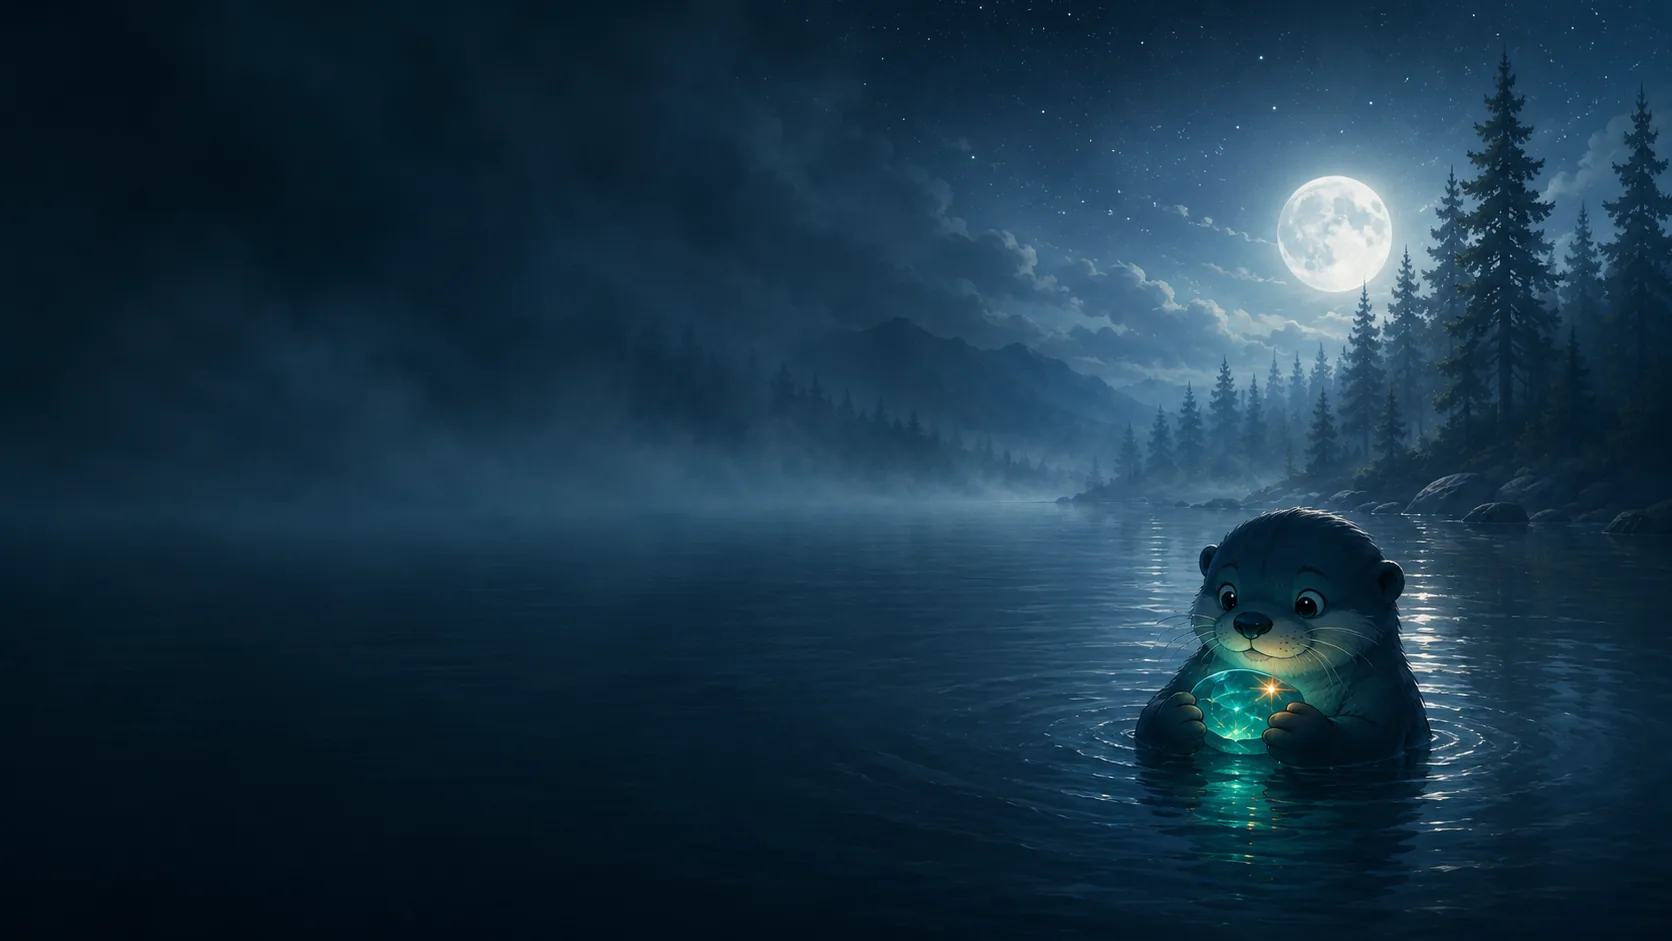
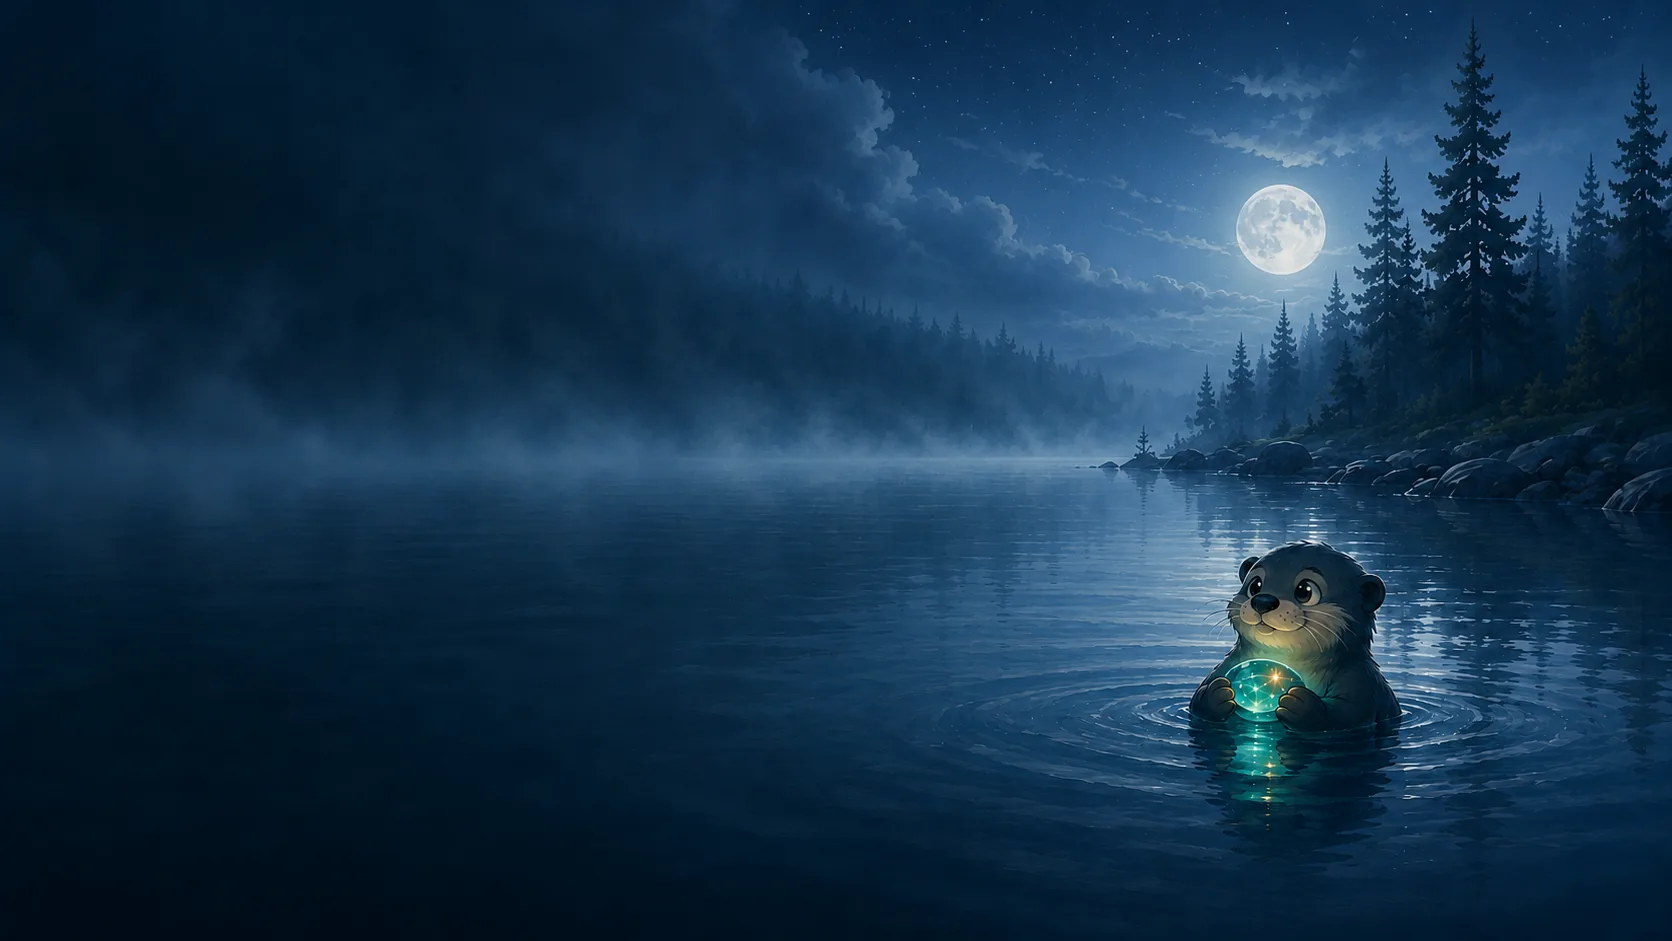
site: deploy

Changed region(s): [[0.0, 0.0, 1.0, 0.9554], [0.9641, 0.4623, 1.0, 0.5547], [0.3421, 0.0, 0.3732, 0.0308]]

diff --git a/index.html b/index.html
@@ -67,16 +67,11 @@
     }
   }
   .theme-toggle{cursor:pointer}
-  .btn.theme-toggle{padding:9px;width:38px;justify-content:center;color:var(--muted)}
-  .btn.theme-toggle:hover{color:var(--ink)}
-  /* transient cue on theme switch: needed because the hero is deepwater in BOTH themes,
-     so a toggle at the top of the page otherwise shows no visible change */
-  .theme-toast{position:fixed;top:74px;right:22px;z-index:60;display:inline-flex;align-items:center;gap:8px;
-    padding:9px 14px;border-radius:999px;background:var(--surface);color:var(--ink);border:1px solid var(--line);
-    box-shadow:var(--shadow-s);font-size:13px;font-weight:600;opacity:0;transform:translateY(-8px) scale(.96);
-    pointer-events:none;transition:opacity .28s ease,transform .28s ease}
-  .theme-toast.show{opacity:1;transform:none}
-  .theme-toast svg{width:15px;height:15px;color:var(--current)}
+  /* no color here: the toggle inherits the header button color (mist over the hero, ink scrolled) */
+  .btn.theme-toggle{padding:9px;width:38px;justify-content:center}
+  /* theme switch cross-fades via the View Transitions API (wired in JS); tune duration + respect reduced-motion */
+  ::view-transition-old(root),::view-transition-new(root){animation-duration:.45s;animation-timing-function:ease}
+  @media (prefers-reduced-motion: reduce){ ::view-transition-old(root),::view-transition-new(root){animation:none} }
   .theme-toggle .sun{display:none}
   :root[data-theme="dark"] .theme-toggle .moon{display:none}
   :root[data-theme="dark"] .theme-toggle .sun{display:block}
@@ -662,12 +657,11 @@
   function cur(){var e=r.getAttribute("data-theme");return e||(matchMedia("(prefers-color-scheme: dark)").matches?"dark":"light");}
   function lbl(t){b.setAttribute("aria-label",t==="dark"?"Switch to light theme":"Switch to dark theme");}
   lbl(cur());
-  var toast=document.createElement("div");toast.className="theme-toast";toast.setAttribute("role","status");toast.setAttribute("aria-live","polite");document.body.appendChild(toast);
-  var SUN='<svg viewBox="0 0 24 24" fill="none" stroke="currentColor" stroke-width="2" stroke-linecap="round" stroke-linejoin="round" aria-hidden="true"><circle cx="12" cy="12" r="4"/><path d="M12 2v2M12 20v2M2 12h2M20 12h2M5 5l1.4 1.4M17.6 17.6 19 19M19 5l-1.4 1.4M6.4 17.6 5 19"/></svg>';
-  var MOON='<svg viewBox="0 0 24 24" fill="none" stroke="currentColor" stroke-width="2" stroke-linecap="round" stroke-linejoin="round" aria-hidden="true"><path d="M21 12.8A9 9 0 1 1 11.2 3a7 7 0 0 0 9.8 9.8z"/></svg>';
-  var tt=null;
-  function toastFor(t){toast.innerHTML=(t==="dark"?MOON:SUN)+"<span>"+(t==="dark"?"Dark":"Light")+" mode</span>";toast.classList.add("show");clearTimeout(tt);tt=setTimeout(function(){toast.classList.remove("show");},1400);}
-  b.addEventListener("click",function(){var n=cur()==="dark"?"light":"dark";r.setAttribute("data-theme",n);try{localStorage.setItem("cl-theme",n);}catch(e){}lbl(n);toastFor(n);});
+  function set(n){r.setAttribute("data-theme",n);try{localStorage.setItem("cl-theme",n);}catch(e){}lbl(n);}
+  b.addEventListener("click",function(){var n=cur()==="dark"?"light":"dark";
+    var reduce=matchMedia("(prefers-reduced-motion: reduce)").matches;
+    if(document.startViewTransition&&!reduce){document.startViewTransition(function(){set(n);});}else{set(n);}
+  });
 })();</script>
 <script>/* copy-to-clipboard on the command blocks. Progressive enhancement: no Clipboard API
    (or insecure context) means no button, and the commands are still readable/selectable. */

diff --git a/docs.css b/docs.css
@@ -34,6 +34,9 @@
   }
 }
 *{box-sizing:border-box}
+/* theme switch cross-fades via the View Transitions API (wired in JS) */
+::view-transition-old(root),::view-transition-new(root){animation-duration:.45s;animation-timing-function:ease}
+@media (prefers-reduced-motion: reduce){ ::view-transition-old(root),::view-transition-new(root){animation:none} }
 html{scroll-behavior:smooth}
 @media (prefers-reduced-motion: reduce){ html{scroll-behavior:auto} *{animation:none!important;transition:none!important} }
 body{margin:0;font-family:var(--ff);color:var(--ink);background:var(--bg);line-height:1.65;

diff --git a/benchmarks.html b/benchmarks.html
@@ -329,7 +329,7 @@ question mix, where the retrieval cost actually lives.</p>
     <span class="social-row"><a class="icon-btn" href="https://github.com/sayak-sarkar/contextlake" aria-label="contextlake on GitHub" title="contextlake on GitHub" rel="noopener" target="_blank"><svg class="lmark" viewBox="0 0 24 24" fill="currentColor" width="15" height="15" aria-hidden="true"><path d="M12 2A10 10 0 0 0 8.8 21.5c.5.1.7-.2.7-.5v-1.7c-2.8.6-3.4-1.3-3.4-1.3-.5-1.2-1.1-1.5-1.1-1.5-.9-.6.1-.6.1-.6 1 .1 1.5 1 1.5 1 .9 1.5 2.3 1.1 2.9.8.1-.6.3-1.1.6-1.4-2.2-.2-4.6-1.1-4.6-5 0-1.1.4-2 1-2.7-.1-.3-.4-1.3.1-2.7 0 0 .8-.3 2.7 1a9.4 9.4 0 0 1 5 0c1.9-1.3 2.7-1 2.7-1 .5 1.4.2 2.4.1 2.7.6.7 1 1.6 1 2.7 0 3.9-2.3 4.8-4.6 5 .4.3.7.9.7 1.9v2.8c0 .3.2.6.7.5A10 10 0 0 0 12 2Z"/></svg></a><a class="icon-btn" href="https://pypi.org/project/contextlake/" aria-label="contextlake on PyPI" title="contextlake on PyPI" rel="noopener" target="_blank"><img src="pypi-logo.svg" class="lmark" width="15" height="13" alt="" style="vertical-align:-2px"></a></span>
   </nav>
 </div></footer>
-<script>(function(){var r=document.documentElement,b=document.getElementById("theme-toggle");if(!b)return;b.hidden=false;function cur(){var e=r.getAttribute("data-theme");return e||(matchMedia("(prefers-color-scheme: dark)").matches?"dark":"light");}function lbl(t){b.setAttribute("aria-label",t==="dark"?"Switch to light theme":"Switch to dark theme");}lbl(cur());b.addEventListener("click",function(){var n=cur()==="dark"?"light":"dark";r.setAttribute("data-theme",n);try{localStorage.setItem("cl-theme",n);}catch(e){}lbl(n);});})();</script>
+<script>(function(){var r=document.documentElement,b=document.getElementById("theme-toggle");if(!b)return;b.hidden=false;function cur(){var e=r.getAttribute("data-theme");return e||(matchMedia("(prefers-color-scheme: dark)").matches?"dark":"light");}function lbl(t){b.setAttribute("aria-label",t==="dark"?"Switch to light theme":"Switch to dark theme");}lbl(cur());function set(n){r.setAttribute("data-theme",n);try{localStorage.setItem("cl-theme",n);}catch(e){}lbl(n);}b.addEventListener("click",function(){var n=cur()==="dark"?"light":"dark";var reduce=matchMedia("(prefers-reduced-motion: reduce)").matches;if(document.startViewTransition&&!reduce){document.startViewTransition(function(){set(n);});}else{set(n);}});})();</script>
 <script>(function(){if(!navigator.clipboard||!navigator.clipboard.writeText)return;
 var C='<svg class="ic-copy" viewBox="0 0 24 24" fill="none" stroke="currentColor" stroke-width="2" stroke-linecap="round" stroke-linejoin="round" aria-hidden="true"><rect x="9" y="9" width="11" height="11" rx="2"/><path d="M5 15V5a2 2 0 0 1 2-2h10"/></svg><svg class="ic-check" viewBox="0 0 24 24" fill="none" stroke="currentColor" stroke-width="2.4" stroke-linecap="round" stroke-linejoin="round" aria-hidden="true"><path d="M5 12.5 10 17l9-10"/></svg>';
 document.querySelectorAll(".prose pre").forEach(function(pre){if(pre.querySelector(".copy-btn"))return;

diff --git a/bootstrap.html b/bootstrap.html
@@ -157,7 +157,7 @@ reclaimed automatically; override (rarely correct) with <code>CONTEXTLAKE_ALLOW_
     <span class="social-row"><a class="icon-btn" href="https://github.com/sayak-sarkar/contextlake" aria-label="contextlake on GitHub" title="contextlake on GitHub" rel="noopener" target="_blank"><svg class="lmark" viewBox="0 0 24 24" fill="currentColor" width="15" height="15" aria-hidden="true"><path d="M12 2A10 10 0 0 0 8.8 21.5c.5.1.7-.2.7-.5v-1.7c-2.8.6-3.4-1.3-3.4-1.3-.5-1.2-1.1-1.5-1.1-1.5-.9-.6.1-.6.1-.6 1 .1 1.5 1 1.5 1 .9 1.5 2.3 1.1 2.9.8.1-.6.3-1.1.6-1.4-2.2-.2-4.6-1.1-4.6-5 0-1.1.4-2 1-2.7-.1-.3-.4-1.3.1-2.7 0 0 .8-.3 2.7 1a9.4 9.4 0 0 1 5 0c1.9-1.3 2.7-1 2.7-1 .5 1.4.2 2.4.1 2.7.6.7 1 1.6 1 2.7 0 3.9-2.3 4.8-4.6 5 .4.3.7.9.7 1.9v2.8c0 .3.2.6.7.5A10 10 0 0 0 12 2Z"/></svg></a><a class="icon-btn" href="https://pypi.org/project/contextlake/" aria-label="contextlake on PyPI" title="contextlake on PyPI" rel="noopener" target="_blank"><img src="pypi-logo.svg" class="lmark" width="15" height="13" alt="" style="vertical-align:-2px"></a></span>
   </nav>
 </div></footer>
-<script>(function(){var r=document.documentElement,b=document.getElementById("theme-toggle");if(!b)return;b.hidden=false;function cur(){var e=r.getAttribute("data-theme");return e||(matchMedia("(prefers-color-scheme: dark)").matches?"dark":"light");}function lbl(t){b.setAttribute("aria-label",t==="dark"?"Switch to light theme":"Switch to dark theme");}lbl(cur());b.addEventListener("click",function(){var n=cur()==="dark"?"light":"dark";r.setAttribute("data-theme",n);try{localStorage.setItem("cl-theme",n);}catch(e){}lbl(n);});})();</script>
+<script>(function(){var r=document.documentElement,b=document.getElementById("theme-toggle");if(!b)return;b.hidden=false;function cur(){var e=r.getAttribute("data-theme");return e||(matchMedia("(prefers-color-scheme: dark)").matches?"dark":"light");}function lbl(t){b.setAttribute("aria-label",t==="dark"?"Switch to light theme":"Switch to dark theme");}lbl(cur());function set(n){r.setAttribute("data-theme",n);try{localStorage.setItem("cl-theme",n);}catch(e){}lbl(n);}b.addEventListener("click",function(){var n=cur()==="dark"?"light":"dark";var reduce=matchMedia("(prefers-reduced-motion: reduce)").matches;if(document.startViewTransition&&!reduce){document.startViewTransition(function(){set(n);});}else{set(n);}});})();</script>
 <script>(function(){if(!navigator.clipboard||!navigator.clipboard.writeText)return;
 var C='<svg class="ic-copy" viewBox="0 0 24 24" fill="none" stroke="currentColor" stroke-width="2" stroke-linecap="round" stroke-linejoin="round" aria-hidden="true"><rect x="9" y="9" width="11" height="11" rx="2"/><path d="M5 15V5a2 2 0 0 1 2-2h10"/></svg><svg class="ic-check" viewBox="0 0 24 24" fill="none" stroke="currentColor" stroke-width="2.4" stroke-linecap="round" stroke-linejoin="round" aria-hidden="true"><path d="M5 12.5 10 17l9-10"/></svg>';
 document.querySelectorAll(".prose pre").forEach(function(pre){if(pre.querySelector(".copy-btn"))return;

diff --git a/brand.html b/brand.html
@@ -129,7 +129,7 @@ rules, see the full <a href="https://github.com/sayak-sarkar/contextlake/blob/ma
     <span class="social-row"><a class="icon-btn" href="https://github.com/sayak-sarkar/contextlake" aria-label="contextlake on GitHub" title="contextlake on GitHub" rel="noopener" target="_blank"><svg class="lmark" viewBox="0 0 24 24" fill="currentColor" width="15" height="15" aria-hidden="true"><path d="M12 2A10 10 0 0 0 8.8 21.5c.5.1.7-.2.7-.5v-1.7c-2.8.6-3.4-1.3-3.4-1.3-.5-1.2-1.1-1.5-1.1-1.5-.9-.6.1-.6.1-.6 1 .1 1.5 1 1.5 1 .9 1.5 2.3 1.1 2.9.8.1-.6.3-1.1.6-1.4-2.2-.2-4.6-1.1-4.6-5 0-1.1.4-2 1-2.7-.1-.3-.4-1.3.1-2.7 0 0 .8-.3 2.7 1a9.4 9.4 0 0 1 5 0c1.9-1.3 2.7-1 2.7-1 .5 1.4.2 2.4.1 2.7.6.7 1 1.6 1 2.7 0 3.9-2.3 4.8-4.6 5 .4.3.7.9.7 1.9v2.8c0 .3.2.6.7.5A10 10 0 0 0 12 2Z"/></svg></a><a class="icon-btn" href="https://pypi.org/project/contextlake/" aria-label="contextlake on PyPI" title="contextlake on PyPI" rel="noopener" target="_blank"><img src="pypi-logo.svg" class="lmark" width="15" height="13" alt="" style="vertical-align:-2px"></a></span>
   </nav>
 </div></footer>
-<script>(function(){var r=document.documentElement,b=document.getElementById("theme-toggle");if(!b)return;b.hidden=false;function cur(){var e=r.getAttribute("data-theme");return e||(matchMedia("(prefers-color-scheme: dark)").matches?"dark":"light");}function lbl(t){b.setAttribute("aria-label",t==="dark"?"Switch to light theme":"Switch to dark theme");}lbl(cur());b.addEventListener("click",function(){var n=cur()==="dark"?"light":"dark";r.setAttribute("data-theme",n);try{localStorage.setItem("cl-theme",n);}catch(e){}lbl(n);});})();</script>
+<script>(function(){var r=document.documentElement,b=document.getElementById("theme-toggle");if(!b)return;b.hidden=false;function cur(){var e=r.getAttribute("data-theme");return e||(matchMedia("(prefers-color-scheme: dark)").matches?"dark":"light");}function lbl(t){b.setAttribute("aria-label",t==="dark"?"Switch to light theme":"Switch to dark theme");}lbl(cur());function set(n){r.setAttribute("data-theme",n);try{localStorage.setItem("cl-theme",n);}catch(e){}lbl(n);}b.addEventListener("click",function(){var n=cur()==="dark"?"light":"dark";var reduce=matchMedia("(prefers-reduced-motion: reduce)").matches;if(document.startViewTransition&&!reduce){document.startViewTransition(function(){set(n);});}else{set(n);}});})();</script>
 <script>(function(){if(!navigator.clipboard||!navigator.clipboard.writeText)return;
 var C='<svg class="ic-copy" viewBox="0 0 24 24" fill="none" stroke="currentColor" stroke-width="2" stroke-linecap="round" stroke-linejoin="round" aria-hidden="true"><rect x="9" y="9" width="11" height="11" rx="2"/><path d="M5 15V5a2 2 0 0 1 2-2h10"/></svg><svg class="ic-check" viewBox="0 0 24 24" fill="none" stroke="currentColor" stroke-width="2.4" stroke-linecap="round" stroke-linejoin="round" aria-hidden="true"><path d="M5 12.5 10 17l9-10"/></svg>';
 document.querySelectorAll(".prose pre").forEach(function(pre){if(pre.querySelector(".copy-btn"))return;

diff --git a/changelog.html b/changelog.html
@@ -1961,7 +1961,7 @@ critical configuration bug.</p>
     <span class="social-row"><a class="icon-btn" href="https://github.com/sayak-sarkar/contextlake" aria-label="contextlake on GitHub" title="contextlake on GitHub" rel="noopener" target="_blank"><svg class="lmark" viewBox="0 0 24 24" fill="currentColor" width="15" height="15" aria-hidden="true"><path d="M12 2A10 10 0 0 0 8.8 21.5c.5.1.7-.2.7-.5v-1.7c-2.8.6-3.4-1.3-3.4-1.3-.5-1.2-1.1-1.5-1.1-1.5-.9-.6.1-.6.1-.6 1 .1 1.5 1 1.5 1 .9 1.5 2.3 1.1 2.9.8.1-.6.3-1.1.6-1.4-2.2-.2-4.6-1.1-4.6-5 0-1.1.4-2 1-2.7-.1-.3-.4-1.3.1-2.7 0 0 .8-.3 2.7 1a9.4 9.4 0 0 1 5 0c1.9-1.3 2.7-1 2.7-1 .5 1.4.2 2.4.1 2.7.6.7 1 1.6 1 2.7 0 3.9-2.3 4.8-4.6 5 .4.3.7.9.7 1.9v2.8c0 .3.2.6.7.5A10 10 0 0 0 12 2Z"/></svg></a><a class="icon-btn" href="https://pypi.org/project/contextlake/" aria-label="contextlake on PyPI" title="contextlake on PyPI" rel="noopener" target="_blank"><img src="pypi-logo.svg" class="lmark" width="15" height="13" alt="" style="vertical-align:-2px"></a></span>
   </nav>
 </div></footer>
-<script>(function(){var r=document.documentElement,b=document.getElementById("theme-toggle");if(!b)return;b.hidden=false;function cur(){var e=r.getAttribute("data-theme");return e||(matchMedia("(prefers-color-scheme: dark)").matches?"dark":"light");}function lbl(t){b.setAttribute("aria-label",t==="dark"?"Switch to light theme":"Switch to dark theme");}lbl(cur());b.addEventListener("click",function(){var n=cur()==="dark"?"light":"dark";r.setAttribute("data-theme",n);try{localStorage.setItem("cl-theme",n);}catch(e){}lbl(n);});})();</script>
+<script>(function(){var r=document.documentElement,b=document.getElementById("theme-toggle");if(!b)return;b.hidden=false;function cur(){var e=r.getAttribute("data-theme");return e||(matchMedia("(prefers-color-scheme: dark)").matches?"dark":"light");}function lbl(t){b.setAttribute("aria-label",t==="dark"?"Switch to light theme":"Switch to dark theme");}lbl(cur());function set(n){r.setAttribute("data-theme",n);try{localStorage.setItem("cl-theme",n);}catch(e){}lbl(n);}b.addEventListener("click",function(){var n=cur()==="dark"?"light":"dark";var reduce=matchMedia("(prefers-reduced-motion: reduce)").matches;if(document.startViewTransition&&!reduce){document.startViewTransition(function(){set(n);});}else{set(n);}});})();</script>
 <script>(function(){if(!navigator.clipboard||!navigator.clipboard.writeText)return;
 var C='<svg class="ic-copy" viewBox="0 0 24 24" fill="none" stroke="currentColor" stroke-width="2" stroke-linecap="round" stroke-linejoin="round" aria-hidden="true"><rect x="9" y="9" width="11" height="11" rx="2"/><path d="M5 15V5a2 2 0 0 1 2-2h10"/></svg><svg class="ic-check" viewBox="0 0 24 24" fill="none" stroke="currentColor" stroke-width="2.4" stroke-linecap="round" stroke-linejoin="round" aria-hidden="true"><path d="M5 12.5 10 17l9-10"/></svg>';
 document.querySelectorAll(".prose pre").forEach(function(pre){if(pre.querySelector(".copy-btn"))return;

diff --git a/cli-reference.html b/cli-reference.html
@@ -153,7 +153,7 @@ are covered under <a href="usage.html">Mirror repositories</a>.</p>
     <span class="social-row"><a class="icon-btn" href="https://github.com/sayak-sarkar/contextlake" aria-label="contextlake on GitHub" title="contextlake on GitHub" rel="noopener" target="_blank"><svg class="lmark" viewBox="0 0 24 24" fill="currentColor" width="15" height="15" aria-hidden="true"><path d="M12 2A10 10 0 0 0 8.8 21.5c.5.1.7-.2.7-.5v-1.7c-2.8.6-3.4-1.3-3.4-1.3-.5-1.2-1.1-1.5-1.1-1.5-.9-.6.1-.6.1-.6 1 .1 1.5 1 1.5 1 .9 1.5 2.3 1.1 2.9.8.1-.6.3-1.1.6-1.4-2.2-.2-4.6-1.1-4.6-5 0-1.1.4-2 1-2.7-.1-.3-.4-1.3.1-2.7 0 0 .8-.3 2.7 1a9.4 9.4 0 0 1 5 0c1.9-1.3 2.7-1 2.7-1 .5 1.4.2 2.4.1 2.7.6.7 1 1.6 1 2.7 0 3.9-2.3 4.8-4.6 5 .4.3.7.9.7 1.9v2.8c0 .3.2.6.7.5A10 10 0 0 0 12 2Z"/></svg></a><a class="icon-btn" href="https://pypi.org/project/contextlake/" aria-label="contextlake on PyPI" title="contextlake on PyPI" rel="noopener" target="_blank"><img src="pypi-logo.svg" class="lmark" width="15" height="13" alt="" style="vertical-align:-2px"></a></span>
   </nav>
 </div></footer>
-<script>(function(){var r=document.documentElement,b=document.getElementById("theme-toggle");if(!b)return;b.hidden=false;function cur(){var e=r.getAttribute("data-theme");return e||(matchMedia("(prefers-color-scheme: dark)").matches?"dark":"light");}function lbl(t){b.setAttribute("aria-label",t==="dark"?"Switch to light theme":"Switch to dark theme");}lbl(cur());b.addEventListener("click",function(){var n=cur()==="dark"?"light":"dark";r.setAttribute("data-theme",n);try{localStorage.setItem("cl-theme",n);}catch(e){}lbl(n);});})();</script>
+<script>(function(){var r=document.documentElement,b=document.getElementById("theme-toggle");if(!b)return;b.hidden=false;function cur(){var e=r.getAttribute("data-theme");return e||(matchMedia("(prefers-color-scheme: dark)").matches?"dark":"light");}function lbl(t){b.setAttribute("aria-label",t==="dark"?"Switch to light theme":"Switch to dark theme");}lbl(cur());function set(n){r.setAttribute("data-theme",n);try{localStorage.setItem("cl-theme",n);}catch(e){}lbl(n);}b.addEventListener("click",function(){var n=cur()==="dark"?"light":"dark";var reduce=matchMedia("(prefers-reduced-motion: reduce)").matches;if(document.startViewTransition&&!reduce){document.startViewTransition(function(){set(n);});}else{set(n);}});})();</script>
 <script>(function(){if(!navigator.clipboard||!navigator.clipboard.writeText)return;
 var C='<svg class="ic-copy" viewBox="0 0 24 24" fill="none" stroke="currentColor" stroke-width="2" stroke-linecap="round" stroke-linejoin="round" aria-hidden="true"><rect x="9" y="9" width="11" height="11" rx="2"/><path d="M5 15V5a2 2 0 0 1 2-2h10"/></svg><svg class="ic-check" viewBox="0 0 24 24" fill="none" stroke="currentColor" stroke-width="2.4" stroke-linecap="round" stroke-linejoin="round" aria-hidden="true"><path d="M5 12.5 10 17l9-10"/></svg>';
 document.querySelectorAll(".prose pre").forEach(function(pre){if(pre.querySelector(".copy-btn"))return;

diff --git a/configuration.html b/configuration.html
@@ -259,7 +259,7 @@ contextlake<span class="w"> </span>--work-dir<span class="w"> </span>/home/user/
     <span class="social-row"><a class="icon-btn" href="https://github.com/sayak-sarkar/contextlake" aria-label="contextlake on GitHub" title="contextlake on GitHub" rel="noopener" target="_blank"><svg class="lmark" viewBox="0 0 24 24" fill="currentColor" width="15" height="15" aria-hidden="true"><path d="M12 2A10 10 0 0 0 8.8 21.5c.5.1.7-.2.7-.5v-1.7c-2.8.6-3.4-1.3-3.4-1.3-.5-1.2-1.1-1.5-1.1-1.5-.9-.6.1-.6.1-.6 1 .1 1.5 1 1.5 1 .9 1.5 2.3 1.1 2.9.8.1-.6.3-1.1.6-1.4-2.2-.2-4.6-1.1-4.6-5 0-1.1.4-2 1-2.7-.1-.3-.4-1.3.1-2.7 0 0 .8-.3 2.7 1a9.4 9.4 0 0 1 5 0c1.9-1.3 2.7-1 2.7-1 .5 1.4.2 2.4.1 2.7.6.7 1 1.6 1 2.7 0 3.9-2.3 4.8-4.6 5 .4.3.7.9.7 1.9v2.8c0 .3.2.6.7.5A10 10 0 0 0 12 2Z"/></svg></a><a class="icon-btn" href="https://pypi.org/project/contextlake/" aria-label="contextlake on PyPI" title="contextlake on PyPI" rel="noopener" target="_blank"><img src="pypi-logo.svg" class="lmark" width="15" height="13" alt="" style="vertical-align:-2px"></a></span>
   </nav>
 </div></footer>
-<script>(function(){var r=document.documentElement,b=document.getElementById("theme-toggle");if(!b)return;b.hidden=false;function cur(){var e=r.getAttribute("data-theme");return e||(matchMedia("(prefers-color-scheme: dark)").matches?"dark":"light");}function lbl(t){b.setAttribute("aria-label",t==="dark"?"Switch to light theme":"Switch to dark theme");}lbl(cur());b.addEventListener("click",function(){var n=cur()==="dark"?"light":"dark";r.setAttribute("data-theme",n);try{localStorage.setItem("cl-theme",n);}catch(e){}lbl(n);});})();</script>
+<script>(function(){var r=document.documentElement,b=document.getElementById("theme-toggle");if(!b)return;b.hidden=false;function cur(){var e=r.getAttribute("data-theme");return e||(matchMedia("(prefers-color-scheme: dark)").matches?"dark":"light");}function lbl(t){b.setAttribute("aria-label",t==="dark"?"Switch to light theme":"Switch to dark theme");}lbl(cur());function set(n){r.setAttribute("data-theme",n);try{localStorage.setItem("cl-theme",n);}catch(e){}lbl(n);}b.addEventListener("click",function(){var n=cur()==="dark"?"light":"dark";var reduce=matchMedia("(prefers-reduced-motion: reduce)").matches;if(document.startViewTransition&&!reduce){document.startViewTransition(function(){set(n);});}else{set(n);}});})();</script>
 <script>(function(){if(!navigator.clipboard||!navigator.clipboard.writeText)return;
 var C='<svg class="ic-copy" viewBox="0 0 24 24" fill="none" stroke="currentColor" stroke-width="2" stroke-linecap="round" stroke-linejoin="round" aria-hidden="true"><rect x="9" y="9" width="11" height="11" rx="2"/><path d="M5 15V5a2 2 0 0 1 2-2h10"/></svg><svg class="ic-check" viewBox="0 0 24 24" fill="none" stroke="currentColor" stroke-width="2.4" stroke-linecap="round" stroke-linejoin="round" aria-hidden="true"><path d="M5 12.5 10 17l9-10"/></svg>';
 document.querySelectorAll(".prose pre").forEach(function(pre){if(pre.querySelector(".copy-btn"))return;

diff --git a/connect-enrich.html b/connect-enrich.html
@@ -224,7 +224,7 @@ project id; and <code>per_page</code>, the API page size (default <code>50</code
     <span class="social-row"><a class="icon-btn" href="https://github.com/sayak-sarkar/contextlake" aria-label="contextlake on GitHub" title="contextlake on GitHub" rel="noopener" target="_blank"><svg class="lmark" viewBox="0 0 24 24" fill="currentColor" width="15" height="15" aria-hidden="true"><path d="M12 2A10 10 0 0 0 8.8 21.5c.5.1.7-.2.7-.5v-1.7c-2.8.6-3.4-1.3-3.4-1.3-.5-1.2-1.1-1.5-1.1-1.5-.9-.6.1-.6.1-.6 1 .1 1.5 1 1.5 1 .9 1.5 2.3 1.1 2.9.8.1-.6.3-1.1.6-1.4-2.2-.2-4.6-1.1-4.6-5 0-1.1.4-2 1-2.7-.1-.3-.4-1.3.1-2.7 0 0 .8-.3 2.7 1a9.4 9.4 0 0 1 5 0c1.9-1.3 2.7-1 2.7-1 .5 1.4.2 2.4.1 2.7.6.7 1 1.6 1 2.7 0 3.9-2.3 4.8-4.6 5 .4.3.7.9.7 1.9v2.8c0 .3.2.6.7.5A10 10 0 0 0 12 2Z"/></svg></a><a class="icon-btn" href="https://pypi.org/project/contextlake/" aria-label="contextlake on PyPI" title="contextlake on PyPI" rel="noopener" target="_blank"><img src="pypi-logo.svg" class="lmark" width="15" height="13" alt="" style="vertical-align:-2px"></a></span>
   </nav>
 </div></footer>
-<script>(function(){var r=document.documentElement,b=document.getElementById("theme-toggle");if(!b)return;b.hidden=false;function cur(){var e=r.getAttribute("data-theme");return e||(matchMedia("(prefers-color-scheme: dark)").matches?"dark":"light");}function lbl(t){b.setAttribute("aria-label",t==="dark"?"Switch to light theme":"Switch to dark theme");}lbl(cur());b.addEventListener("click",function(){var n=cur()==="dark"?"light":"dark";r.setAttribute("data-theme",n);try{localStorage.setItem("cl-theme",n);}catch(e){}lbl(n);});})();</script>
+<script>(function(){var r=document.documentElement,b=document.getElementById("theme-toggle");if(!b)return;b.hidden=false;function cur(){var e=r.getAttribute("data-theme");return e||(matchMedia("(prefers-color-scheme: dark)").matches?"dark":"light");}function lbl(t){b.setAttribute("aria-label",t==="dark"?"Switch to light theme":"Switch to dark theme");}lbl(cur());function set(n){r.setAttribute("data-theme",n);try{localStorage.setItem("cl-theme",n);}catch(e){}lbl(n);}b.addEventListener("click",function(){var n=cur()==="dark"?"light":"dark";var reduce=matchMedia("(prefers-reduced-motion: reduce)").matches;if(document.startViewTransition&&!reduce){document.startViewTransition(function(){set(n);});}else{set(n);}});})();</script>
 <script>(function(){if(!navigator.clipboard||!navigator.clipboard.writeText)return;
 var C='<svg class="ic-copy" viewBox="0 0 24 24" fill="none" stroke="currentColor" stroke-width="2" stroke-linecap="round" stroke-linejoin="round" aria-hidden="true"><rect x="9" y="9" width="11" height="11" rx="2"/><path d="M5 15V5a2 2 0 0 1 2-2h10"/></svg><svg class="ic-check" viewBox="0 0 24 24" fill="none" stroke="currentColor" stroke-width="2.4" stroke-linecap="round" stroke-linejoin="round" aria-hidden="true"><path d="M5 12.5 10 17l9-10"/></svg>';
 document.querySelectorAll(".prose pre").forEach(function(pre){if(pre.querySelector(".copy-btn"))return;

diff --git a/console-output.html b/console-output.html
@@ -176,7 +176,7 @@ progress still shows.</p>
     <span class="social-row"><a class="icon-btn" href="https://github.com/sayak-sarkar/contextlake" aria-label="contextlake on GitHub" title="contextlake on GitHub" rel="noopener" target="_blank"><svg class="lmark" viewBox="0 0 24 24" fill="currentColor" width="15" height="15" aria-hidden="true"><path d="M12 2A10 10 0 0 0 8.8 21.5c.5.1.7-.2.7-.5v-1.7c-2.8.6-3.4-1.3-3.4-1.3-.5-1.2-1.1-1.5-1.1-1.5-.9-.6.1-.6.1-.6 1 .1 1.5 1 1.5 1 .9 1.5 2.3 1.1 2.9.8.1-.6.3-1.1.6-1.4-2.2-.2-4.6-1.1-4.6-5 0-1.1.4-2 1-2.7-.1-.3-.4-1.3.1-2.7 0 0 .8-.3 2.7 1a9.4 9.4 0 0 1 5 0c1.9-1.3 2.7-1 2.7-1 .5 1.4.2 2.4.1 2.7.6.7 1 1.6 1 2.7 0 3.9-2.3 4.8-4.6 5 .4.3.7.9.7 1.9v2.8c0 .3.2.6.7.5A10 10 0 0 0 12 2Z"/></svg></a><a class="icon-btn" href="https://pypi.org/project/contextlake/" aria-label="contextlake on PyPI" title="contextlake on PyPI" rel="noopener" target="_blank"><img src="pypi-logo.svg" class="lmark" width="15" height="13" alt="" style="vertical-align:-2px"></a></span>
   </nav>
 </div></footer>
-<script>(function(){var r=document.documentElement,b=document.getElementById("theme-toggle");if(!b)return;b.hidden=false;function cur(){var e=r.getAttribute("data-theme");return e||(matchMedia("(prefers-color-scheme: dark)").matches?"dark":"light");}function lbl(t){b.setAttribute("aria-label",t==="dark"?"Switch to light theme":"Switch to dark theme");}lbl(cur());b.addEventListener("click",function(){var n=cur()==="dark"?"light":"dark";r.setAttribute("data-theme",n);try{localStorage.setItem("cl-theme",n);}catch(e){}lbl(n);});})();</script>
+<script>(function(){var r=document.documentElement,b=document.getElementById("theme-toggle");if(!b)return;b.hidden=false;function cur(){var e=r.getAttribute("data-theme");return e||(matchMedia("(prefers-color-scheme: dark)").matches?"dark":"light");}function lbl(t){b.setAttribute("aria-label",t==="dark"?"Switch to light theme":"Switch to dark theme");}lbl(cur());function set(n){r.setAttribute("data-theme",n);try{localStorage.setItem("cl-theme",n);}catch(e){}lbl(n);}b.addEventListener("click",function(){var n=cur()==="dark"?"light":"dark";var reduce=matchMedia("(prefers-reduced-motion: reduce)").matches;if(document.startViewTransition&&!reduce){document.startViewTransition(function(){set(n);});}else{set(n);}});})();</script>
 <script>(function(){if(!navigator.clipboard||!navigator.clipboard.writeText)return;
 var C='<svg class="ic-copy" viewBox="0 0 24 24" fill="none" stroke="currentColor" stroke-width="2" stroke-linecap="round" stroke-linejoin="round" aria-hidden="true"><rect x="9" y="9" width="11" height="11" rx="2"/><path d="M5 15V5a2 2 0 0 1 2-2h10"/></svg><svg class="ic-check" viewBox="0 0 24 24" fill="none" stroke="currentColor" stroke-width="2.4" stroke-linecap="round" stroke-linejoin="round" aria-hidden="true"><path d="M5 12.5 10 17l9-10"/></svg>';
 document.querySelectorAll(".prose pre").forEach(function(pre){if(pre.querySelector(".copy-btn"))return;

diff --git a/dashboard.html b/dashboard.html
@@ -170,7 +170,7 @@ controls are planned for a future release.</p>
     <span class="social-row"><a class="icon-btn" href="https://github.com/sayak-sarkar/contextlake" aria-label="contextlake on GitHub" title="contextlake on GitHub" rel="noopener" target="_blank"><svg class="lmark" viewBox="0 0 24 24" fill="currentColor" width="15" height="15" aria-hidden="true"><path d="M12 2A10 10 0 0 0 8.8 21.5c.5.1.7-.2.7-.5v-1.7c-2.8.6-3.4-1.3-3.4-1.3-.5-1.2-1.1-1.5-1.1-1.5-.9-.6.1-.6.1-.6 1 .1 1.5 1 1.5 1 .9 1.5 2.3 1.1 2.9.8.1-.6.3-1.1.6-1.4-2.2-.2-4.6-1.1-4.6-5 0-1.1.4-2 1-2.7-.1-.3-.4-1.3.1-2.7 0 0 .8-.3 2.7 1a9.4 9.4 0 0 1 5 0c1.9-1.3 2.7-1 2.7-1 .5 1.4.2 2.4.1 2.7.6.7 1 1.6 1 2.7 0 3.9-2.3 4.8-4.6 5 .4.3.7.9.7 1.9v2.8c0 .3.2.6.7.5A10 10 0 0 0 12 2Z"/></svg></a><a class="icon-btn" href="https://pypi.org/project/contextlake/" aria-label="contextlake on PyPI" title="contextlake on PyPI" rel="noopener" target="_blank"><img src="pypi-logo.svg" class="lmark" width="15" height="13" alt="" style="vertical-align:-2px"></a></span>
   </nav>
 </div></footer>
-<script>(function(){var r=document.documentElement,b=document.getElementById("theme-toggle");if(!b)return;b.hidden=false;function cur(){var e=r.getAttribute("data-theme");return e||(matchMedia("(prefers-color-scheme: dark)").matches?"dark":"light");}function lbl(t){b.setAttribute("aria-label",t==="dark"?"Switch to light theme":"Switch to dark theme");}lbl(cur());b.addEventListener("click",function(){var n=cur()==="dark"?"light":"dark";r.setAttribute("data-theme",n);try{localStorage.setItem("cl-theme",n);}catch(e){}lbl(n);});})();</script>
+<script>(function(){var r=document.documentElement,b=document.getElementById("theme-toggle");if(!b)return;b.hidden=false;function cur(){var e=r.getAttribute("data-theme");return e||(matchMedia("(prefers-color-scheme: dark)").matches?"dark":"light");}function lbl(t){b.setAttribute("aria-label",t==="dark"?"Switch to light theme":"Switch to dark theme");}lbl(cur());function set(n){r.setAttribute("data-theme",n);try{localStorage.setItem("cl-theme",n);}catch(e){}lbl(n);}b.addEventListener("click",function(){var n=cur()==="dark"?"light":"dark";var reduce=matchMedia("(prefers-reduced-motion: reduce)").matches;if(document.startViewTransition&&!reduce){document.startViewTransition(function(){set(n);});}else{set(n);}});})();</script>
 <script>(function(){if(!navigator.clipboard||!navigator.clipboard.writeText)return;
 var C='<svg class="ic-copy" viewBox="0 0 24 24" fill="none" stroke="currentColor" stroke-width="2" stroke-linecap="round" stroke-linejoin="round" aria-hidden="true"><rect x="9" y="9" width="11" height="11" rx="2"/><path d="M5 15V5a2 2 0 0 1 2-2h10"/></svg><svg class="ic-check" viewBox="0 0 24 24" fill="none" stroke="currentColor" stroke-width="2.4" stroke-linecap="round" stroke-linejoin="round" aria-hidden="true"><path d="M5 12.5 10 17l9-10"/></svg>';
 document.querySelectorAll(".prose pre").forEach(function(pre){if(pre.querySelector(".copy-btn"))return;

diff --git a/docs.html b/docs.html
@@ -393,7 +393,7 @@ graph, change-impact (blast radius), health, and search. Try it with zero setup 
     <span class="social-row"><a class="icon-btn" href="https://github.com/sayak-sarkar/contextlake" aria-label="contextlake on GitHub" title="contextlake on GitHub" rel="noopener" target="_blank"><svg class="lmark" viewBox="0 0 24 24" fill="currentColor" width="15" height="15" aria-hidden="true"><path d="M12 2A10 10 0 0 0 8.8 21.5c.5.1.7-.2.7-.5v-1.7c-2.8.6-3.4-1.3-3.4-1.3-.5-1.2-1.1-1.5-1.1-1.5-.9-.6.1-.6.1-.6 1 .1 1.5 1 1.5 1 .9 1.5 2.3 1.1 2.9.8.1-.6.3-1.1.6-1.4-2.2-.2-4.6-1.1-4.6-5 0-1.1.4-2 1-2.7-.1-.3-.4-1.3.1-2.7 0 0 .8-.3 2.7 1a9.4 9.4 0 0 1 5 0c1.9-1.3 2.7-1 2.7-1 .5 1.4.2 2.4.1 2.7.6.7 1 1.6 1 2.7 0 3.9-2.3 4.8-4.6 5 .4.3.7.9.7 1.9v2.8c0 .3.2.6.7.5A10 10 0 0 0 12 2Z"/></svg></a><a class="icon-btn" href="https://pypi.org/project/contextlake/" aria-label="contextlake on PyPI" title="contextlake on PyPI" rel="noopener" target="_blank"><img src="pypi-logo.svg" class="lmark" width="15" height="13" alt="" style="vertical-align:-2px"></a></span>
   </nav>
 </div></footer>
-<script>(function(){var r=document.documentElement,b=document.getElementById("theme-toggle");if(!b)return;b.hidden=false;function cur(){var e=r.getAttribute("data-theme");return e||(matchMedia("(prefers-color-scheme: dark)").matches?"dark":"light");}function lbl(t){b.setAttribute("aria-label",t==="dark"?"Switch to light theme":"Switch to dark theme");}lbl(cur());b.addEventListener("click",function(){var n=cur()==="dark"?"light":"dark";r.setAttribute("data-theme",n);try{localStorage.setItem("cl-theme",n);}catch(e){}lbl(n);});})();</script>
+<script>(function(){var r=document.documentElement,b=document.getElementById("theme-toggle");if(!b)return;b.hidden=false;function cur(){var e=r.getAttribute("data-theme");return e||(matchMedia("(prefers-color-scheme: dark)").matches?"dark":"light");}function lbl(t){b.setAttribute("aria-label",t==="dark"?"Switch to light theme":"Switch to dark theme");}lbl(cur());function set(n){r.setAttribute("data-theme",n);try{localStorage.setItem("cl-theme",n);}catch(e){}lbl(n);}b.addEventListener("click",function(){var n=cur()==="dark"?"light":"dark";var reduce=matchMedia("(prefers-reduced-motion: reduce)").matches;if(document.startViewTransition&&!reduce){document.startViewTransition(function(){set(n);});}else{set(n);}});})();</script>
 <script>(function(){if(!navigator.clipboard||!navigator.clipboard.writeText)return;
 var C='<svg class="ic-copy" viewBox="0 0 24 24" fill="none" stroke="currentColor" stroke-width="2" stroke-linecap="round" stroke-linejoin="round" aria-hidden="true"><rect x="9" y="9" width="11" height="11" rx="2"/><path d="M5 15V5a2 2 0 0 1 2-2h10"/></svg><svg class="ic-check" viewBox="0 0 24 24" fill="none" stroke="currentColor" stroke-width="2.4" stroke-linecap="round" stroke-linejoin="round" aria-hidden="true"><path d="M5 12.5 10 17l9-10"/></svg>';
 document.querySelectorAll(".prose pre").forEach(function(pre){if(pre.querySelector(".copy-btn"))return;